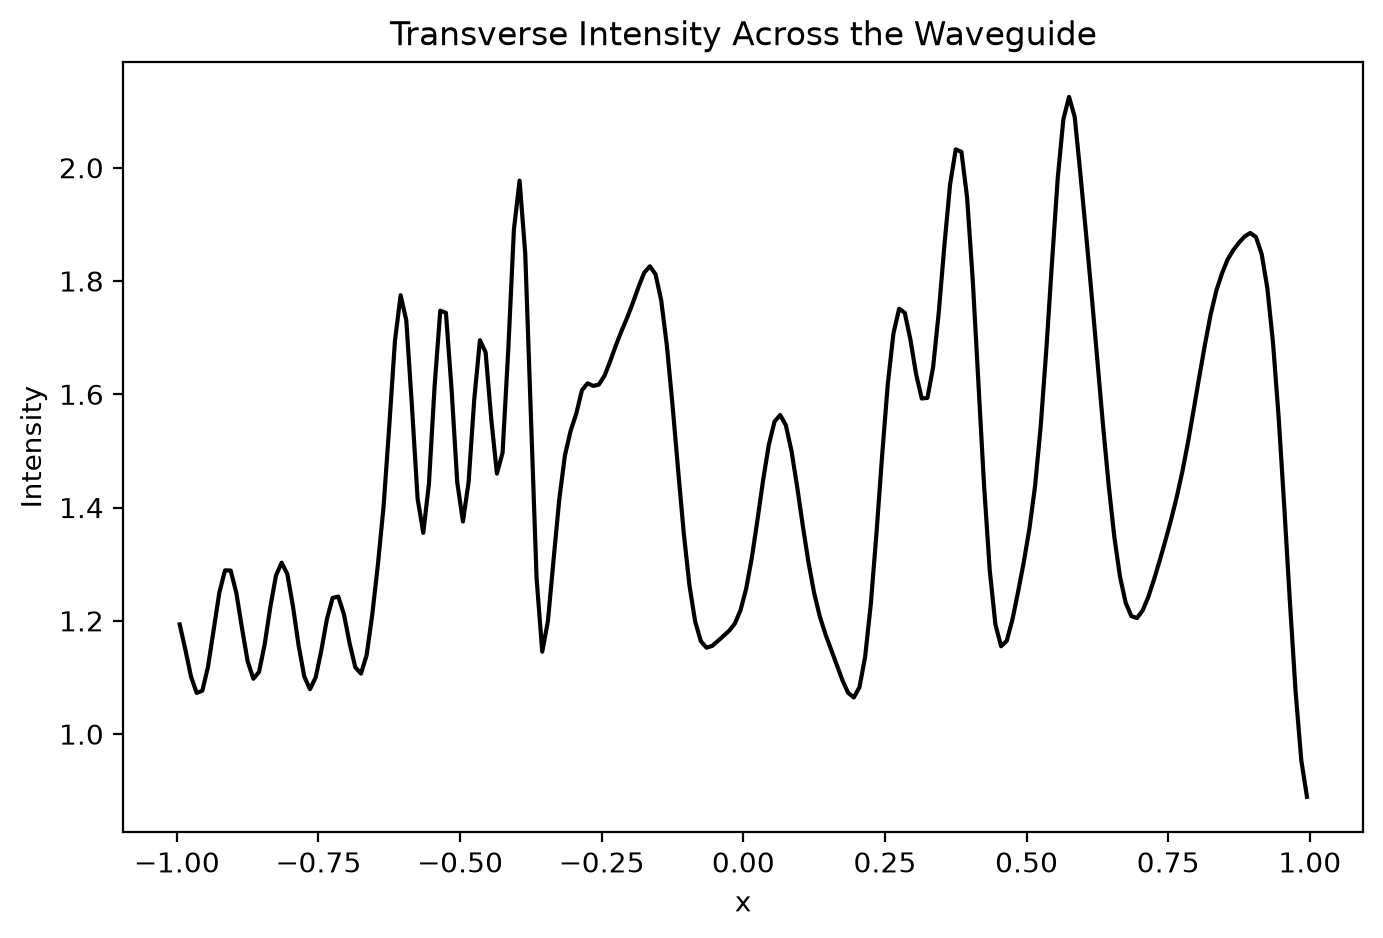
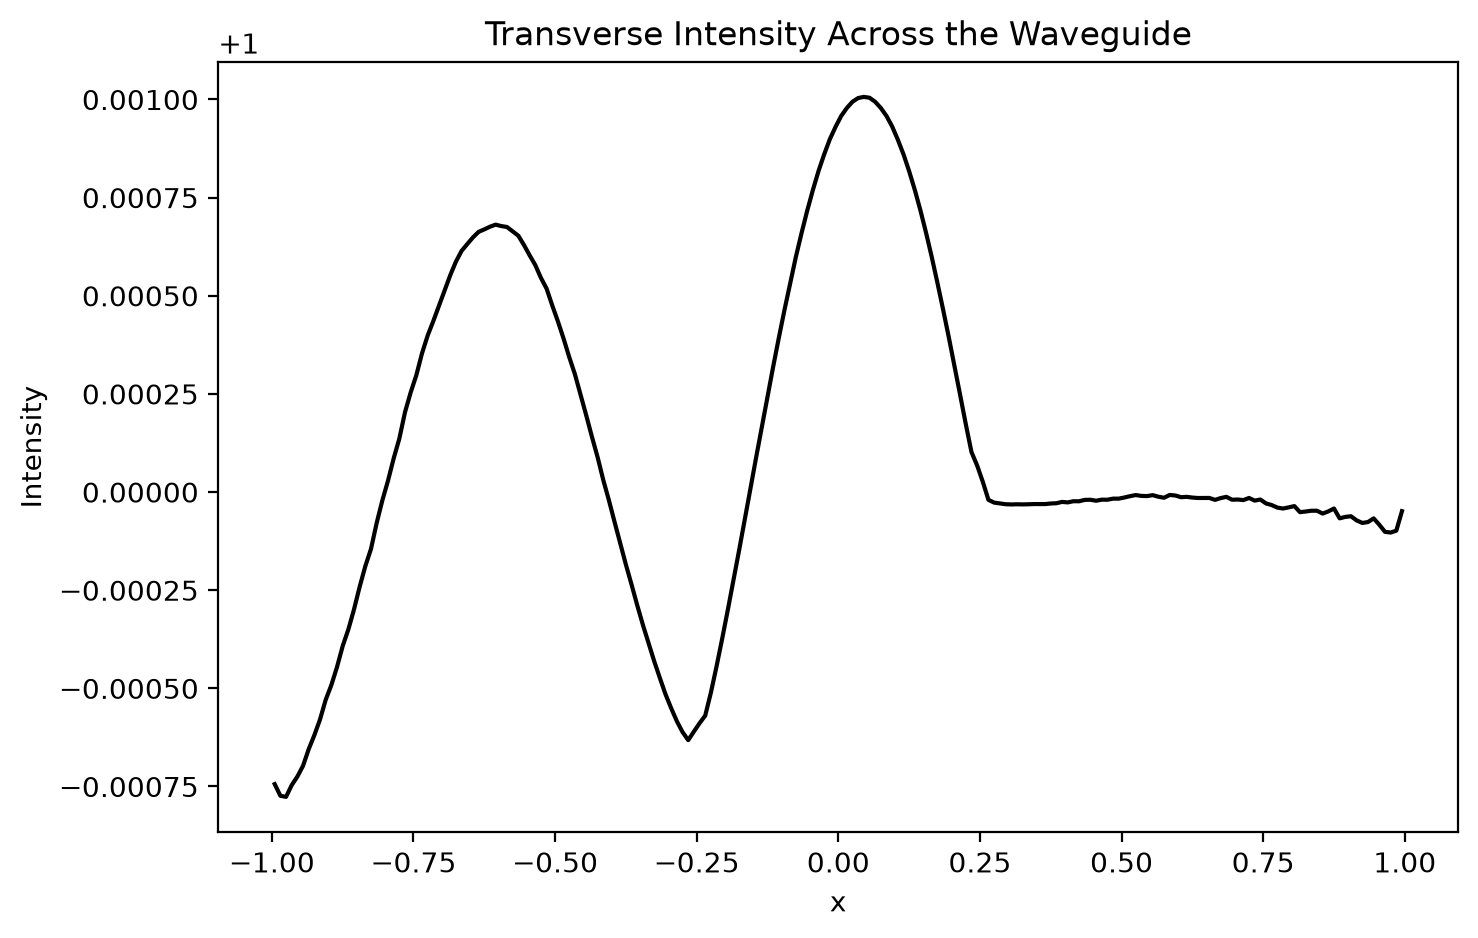
Adding read me file

diff --git a/readme.md b/readme.md
@@ -1,0 +1,133 @@
+# Waveguide with Circular Refractors: a 2D Finite-Element Scattering Solver
+
+A 2D frequency-domain solver for a scalar wave in a rectangular waveguide containing one or several circular dielectric refractors. It is built with [deal.II](https://dealii.org) and meshes with the [Gmsh](https://gmsh.info) C++ API. The long-term goal is to study bound states in the continuum (BICs); the current version is a validated scattering solver with mode-resolved post-processing.
+
+## Physics
+
+The unknown `u` is the out-of-plane magnetic field (TM case) and satisfies
+
+    div( (1/eps_r) grad u ) + k0^2 u = 0,        k0 = omega / c
+
+inside the guide of width `W = y_max - y_min`, where `eps_r` is 1 in the background and constant inside each refractor.
+
+- **Walls** (boundary id 3): `u = 0`.
+- **Ports** (boundary ids 1 = input, 2 = output): a first-order Robin condition built with the propagation constant of the incident mode `n`,
+
+      beta_n = sqrt( k0^2 - (n*pi/W)^2 ).
+
+  It absorbs mode `n` exactly. At the input port a source term injects a unit-normalized incident wave. In the code's convention the forward wave varies as `exp(-i*beta*x)`.
+- **Single-mode window:** only mode 1 propagates when `pi/W < k0 < 2*pi/W`. Outside it, several modes propagate and the single-beta port is only exact for the incident mode (see Limitations).
+
+The complex field is stored as two real components (`Re`, `Im`) with `FESystem<2>(FE_Q<2>(1)^2)`, and the linear system is solved with UMFPACK.
+
+## Mesh
+
+`build_mesh` (Gmsh C++ API, OpenCASCADE kernel) builds the rectangle and the disks, makes the disk interfaces conforming with a boolean fragment, and writes a quadrilateral mesh (`msh` v2.2). Labels carried into deal.II:
+
+| Label | Meaning |
+|---|---|
+| material id 1 | background |
+| material id 2 + i | refractor `i` (same order as in the parameter file) |
+| boundary id 1 / 2 | input port / output port |
+| boundary id 3 | walls |
+
+After reading the mesh, each refractor gets its own `SphericalManifold` (manifold id = refractor index), set on the interface faces and the adjacent cells, before global refinement. Keep gaps between refractors (and to the walls) several cells wide, otherwise a coarse cell can touch two interfaces.
+
+## Post-processing
+
+- **Modal amplitude** `a_m(x)`: projection of the field on the mode `sin(m*pi*(y - y_min)/W)` along the line `x = const`, using Gauss quadrature and `FEFieldFunction`.
+- **Forward/backward fit:** at two planes on each side of the refractors, `a_m(x) = A*exp(-i*beta_m*x) + B*exp(+i*beta_m*x)` is solved for `A` and `B`.
+- **Scattering results:** `r = B_left/A_left`, `t = A_right/A_left`, `R = |r|^2`, `T = |t|^2`, balance `R + T`.
+- **Power spectrum:** for every propagating mode `m`, the powers `beta_m*|B_left|^2`, `beta_m*|A_right|^2` and the port-reflection terms, normalized by the incident power. The sum over modes is the generalized energy balance.
+- **Intensity:** transverse intensity `integral |u|^2 dy` along the guide.
+
+## Build
+
+Requirements: CMake, a C++17 compiler, deal.II (>= 9.3, with MPI), and the Gmsh C++ library and headers (e.g. `libgmsh-dev`).
+
+```
+mkdir builds && cd builds
+cmake ..
+make
+```
+
+If CMake cannot find Gmsh, pass its location, e.g. `cmake -DCMAKE_PREFIX_PATH=/path/to/gmsh ..`. Run from `build/`, with the parameter file in the same directory:
+
+```
+./main        # or: make run
+```
+
+## Parameters
+
+The parameter file is read once into a plain `Parameters` struct (`read_parameters`). Subsections and keys:
+
+```
+subsection Mesh & Geometry
+  set Number Of Refinements = 2
+  set Wave Guide Corners    = -1.0, 0.0, 1.0, 0.5   # x_min, y_min, x_max, y_max
+  set Max Cell Size         = 0.05
+end
+
+subsection Refractors            # lists of equal length, one entry per refractor
+  set Centers x      = 0.0, 0.6
+  set Centers y      = 0.25, 0.25
+  set Radii          = 0.15, 0.10
+  set Permittivities = 1.5, 2.0
+end
+
+subsection Physics
+  set Omega       = 3e9      # angular frequency in rad/s (f = omega / 2 pi)
+  set C           = 3e8
+  set Mode Number = 1
+end
+
+subsection Output
+  set Output File Name = solution
+end
+```
+
+Post-processing options (number of quadrature subintervals, sampling points) are declared in the same file; see `parameters.cc`. Refractors must lie inside the guide and must not overlap; both are checked on reading.
+
+## Output
+
+- `<name>_<n>.vtu` and `.h5`: fields `Re`, `IM` and `material_id`, for ParaView.
+- `grid.svg`: the refined mesh.
+- CSV files: modal amplitude and intensity along the guide (sampled points and a uniform graph), `scattering_results.csv`, and the per-mode power spectrum.
+
+The scripts in `post_processing/` read the CSV files and produce the amplitude, phase, intensity and power-spectrum figures.
+
+## Repository layout
+
+```
+CMakeLists.txt
+main.cc
+includes/          headers (Parameters, mesh builder, solver class, post-processor)
+src/               implementations
+tests/             standalone mesh test (Gmsh only)
+post_processing/   Python plotting scripts
+```
+
+## Validation status
+
+- Empty guide: reflection close to 0, |t| close to 1, incident amplitude equal to `sqrt(2/W)`.
+- Several refractors in the single-mode window: `R + T` close to 1.
+- Several propagating modes: the single-mode balance is not expected to equal 1; the per-mode power spectrum is the meaningful output.
+
+## Limitations
+
+- The Robin port is exact only for the incident mode. When other modes propagate, they partly reflect at the ports, which distorts the energy balance (visible as output-port reflection growing for modes near cutoff).
+- Q1 elements need roughly 10 or more cells per local wavelength (wavelength divided by `sqrt(eps_r)` inside refractors). High frequencies need fine meshes; check convergence under refinement.
+- Measurement planes must be far enough from the refractors for evanescent modes to decay; check that `r` and `t` do not depend on plane positions.
+- Only the TM polarization is implemented. For TE, `eps_r` moves from the gradient term to the mass term.
+
+## Roadmap
+
+- Multimode port condition (Dirichlet-to-Neumann map over the propagating modes).
+- Convergence study and a comparison with a published waveguide benchmark.
+- Eigenvalue / quasi-normal-mode solves with PML or an equivalent open boundary.
+- Quality-factor tracking against a symmetry-breaking parameter, to locate symmetry-protected BICs.
+- Optional local mesh refinement near the refractors (through Gmsh size fields).
+
+## Author
+
+Amine. Work in progress, developed as preparation for PhD research on electromagnetic simulation. License: to be decided.
